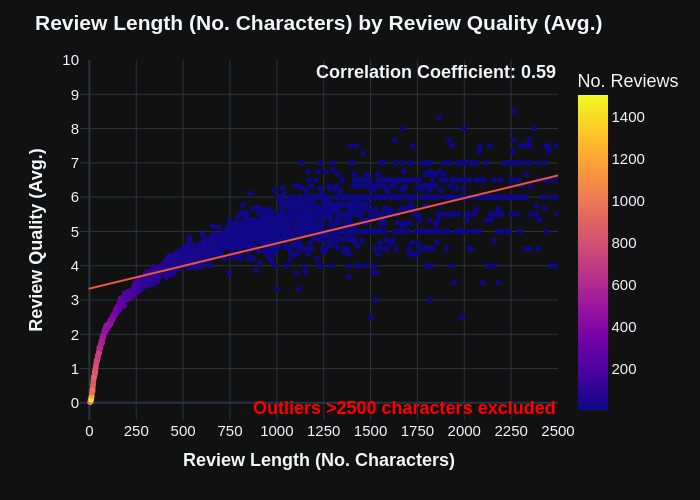
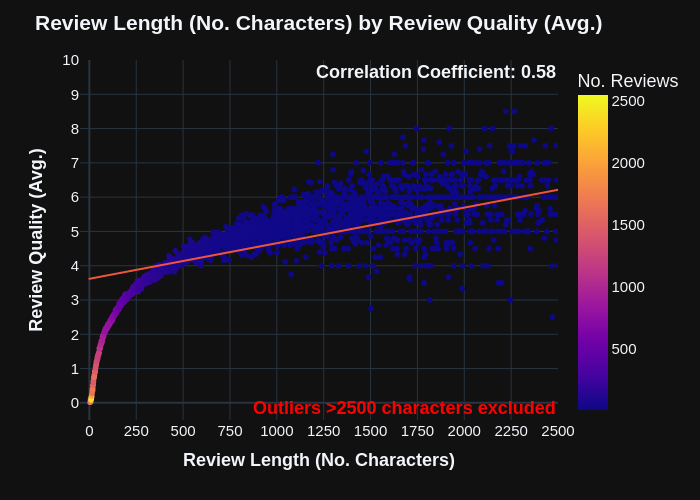
data: update plots to use larger dataset

diff --git a/src/main.py b/src/main.py
@@ -193,15 +193,14 @@ for iteration in range(3):
     for review_file, product_file in zip(review_files, product_files):
         t0 = time.time()
 
-        if iteration == 0 and review_file != review_files[-1]:
-            # [
-            #     "All_Beauty.jsonl.gz",
-            #     "Amazon_Fashion.jsonl.gz",
-            #     "Appliances.jsonl.gz",
-            #     "Arts_Crafts_and_Sewing.jsonl.gz",
-            #     "Automotive.jsonl.gz",
-            #     "Baby_Products.jsonl.gz",
-            #     "Beauty_and_Personal_Care.jsonl.gz",
+        if iteration in [0, 1] and review_file not in [
+            "All_Beauty.jsonl.gz",
+            "Amazon_Fashion.jsonl.gz",
+            "Appliances.jsonl.gz",
+            "Arts_Crafts_and_Sewing.jsonl.gz",
+            "Automotive.jsonl.gz",
+            "Baby_Products.jsonl.gz",
+            "Beauty_and_Personal_Care.jsonl.gz",
             #     "Books.jsonl.gz",
             #     "CDs_and_Vinyl.jsonl.gz",
             #     "Cell_Phones_and_Accessories.jsonl.gz",
@@ -213,13 +212,13 @@ for iteration in range(3):
             #     "Handmade_Products.jsonl.gz",
             #     "Health_and_Household.jsonl.gz",
             #     "Health_and_Personal_Care.jsonl.gz",
-            #     "Home_and_Kitchen.jsonl.gz",
-            #     "Industrial_and_Scientific.jsonl.gz",
-            #     "Kindle_Store.jsonl.gz",
-            #     "Magazine_Subscriptions.jsonl.gz",
-            #     "Movies_and_TV.jsonl.gz",
-            #     "Musical_Instruments.jsonl.gz",
-            # ]:
+            #     #     "Home_and_Kitchen.jsonl.gz",
+            #     #     "Industrial_and_Scientific.jsonl.gz",
+            #     #     "Kindle_Store.jsonl.gz",
+            #     #     "Magazine_Subscriptions.jsonl.gz",
+            #     #     "Movies_and_TV.jsonl.gz",
+            #     #     "Musical_Instruments.jsonl.gz",
+        ]:
             logger.info(
                 f"Skipping {review_file}, {product_file} on iteration {iteration}."
             )
